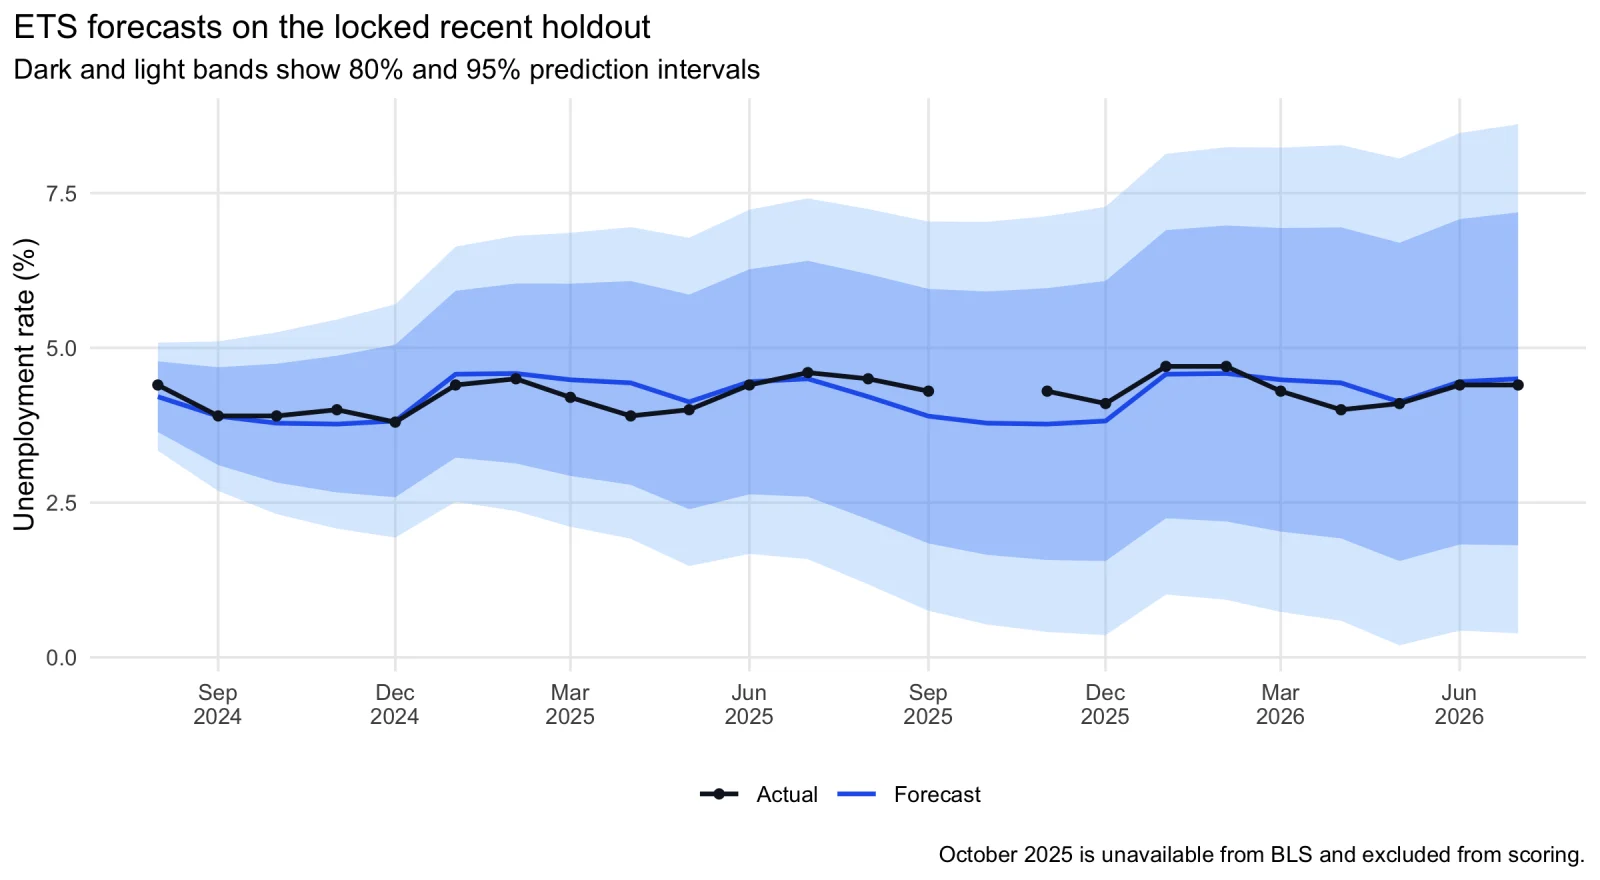
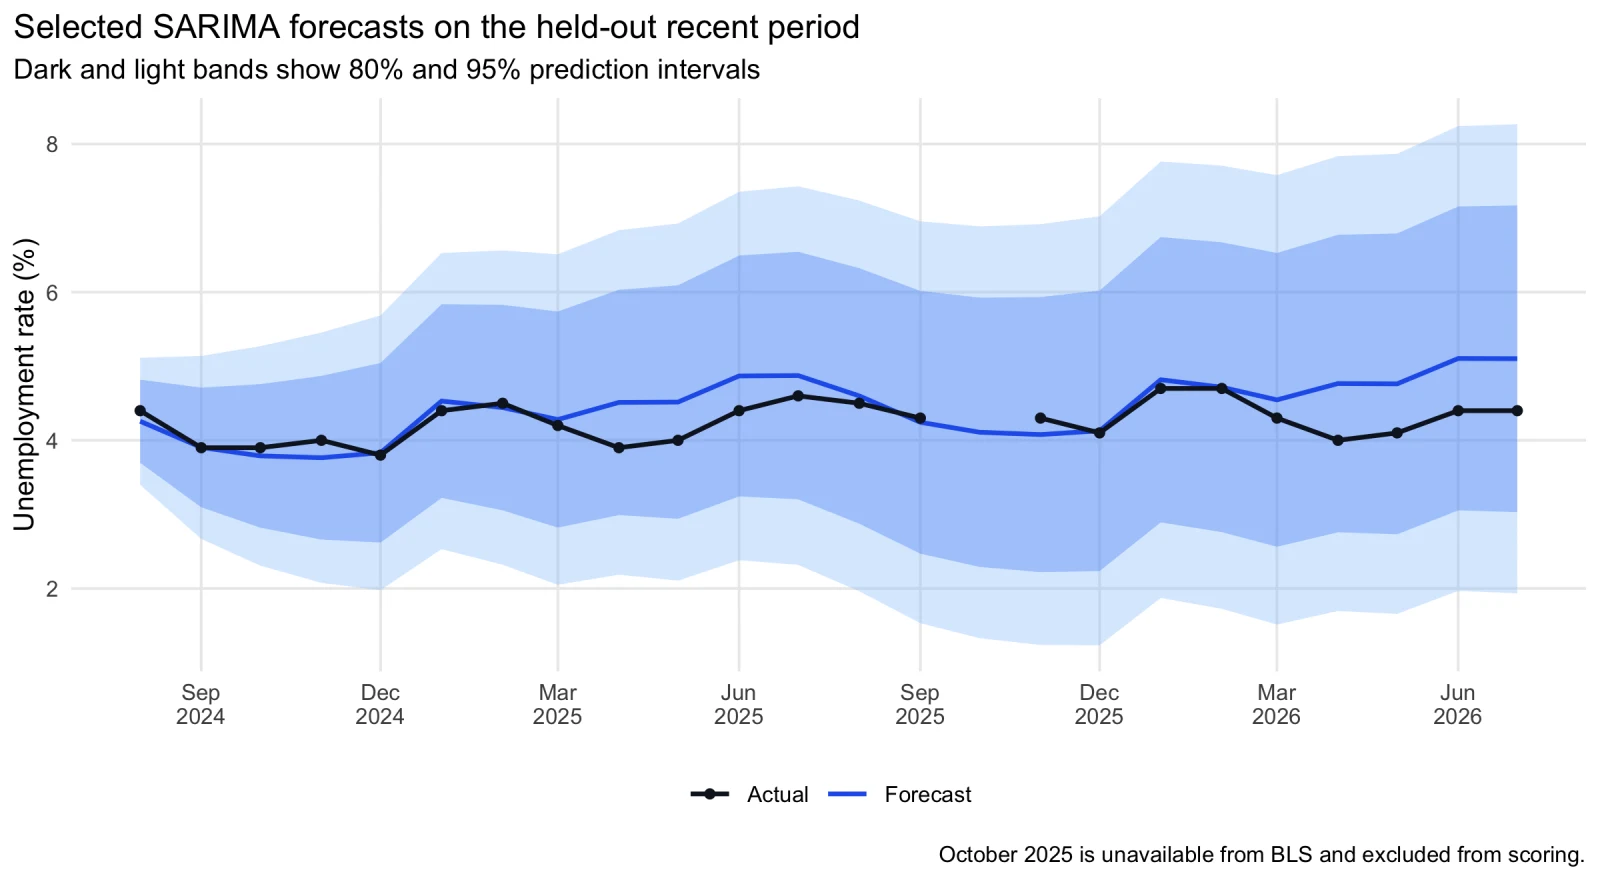
sync unemployment project results

diff --git a/index.html b/index.html
@@ -489,8 +489,8 @@
             <div class="project-card">
                 <h3>U.S. Unemployment Rate Forecasting</h3>
                 <span class="tech">R &middot; R Markdown</span>
-                <img class="hero-image" src="images/unemployment-holdout.webp" alt="ETS unemployment-rate forecasts and prediction intervals over the locked August 2024 through July 2026 holdout" onclick="openLightbox(this)">
-                <p>A reproducible forecasting study of 942 observed monthly BLS unemployment rates across 943 calendar months from 1948 through 2026. Five SARIMA specifications and ETS were compared across 10 rolling validation windows before scoring the selected model on a locked 24-month holdout. ETS reduced holdout RMSE by 31.4% versus naive and 43.2% versus seasonal-naive forecasts; the analysis preserves a source-documented missing month and reports forecast bias, interval coverage, and regime sensitivity.</p>
+                <img class="hero-image" src="images/unemployment-holdout.webp" alt="Selected SARIMA unemployment-rate forecasts and prediction intervals over the held-out August 2024 through July 2026 period" onclick="openLightbox(this)">
+                <p>A reproducible forecasting study of 942 observed monthly BLS unemployment rates across 943 calendar months from 1948 through 2026. Pre-validation seasonal-strength, KPSS, and ACF/PACF diagnostics define 18 SARIMA specifications, compared with ETS across 10 rolling 24-month windows before the selected model is scored on a held-out evaluation period. The selected SARIMA improves holdout MAE but not RMSE versus naive and drift benchmarks, showing how rankings change across loss functions and economic regimes; the analysis also preserves a source-documented missing month and reports interval and residual diagnostics.</p>
                 <a href="https://github.com/alexspigler/us-unemployment-forecasting" target="_blank" rel="noopener noreferrer">View on GitHub</a>
             </div>
 
